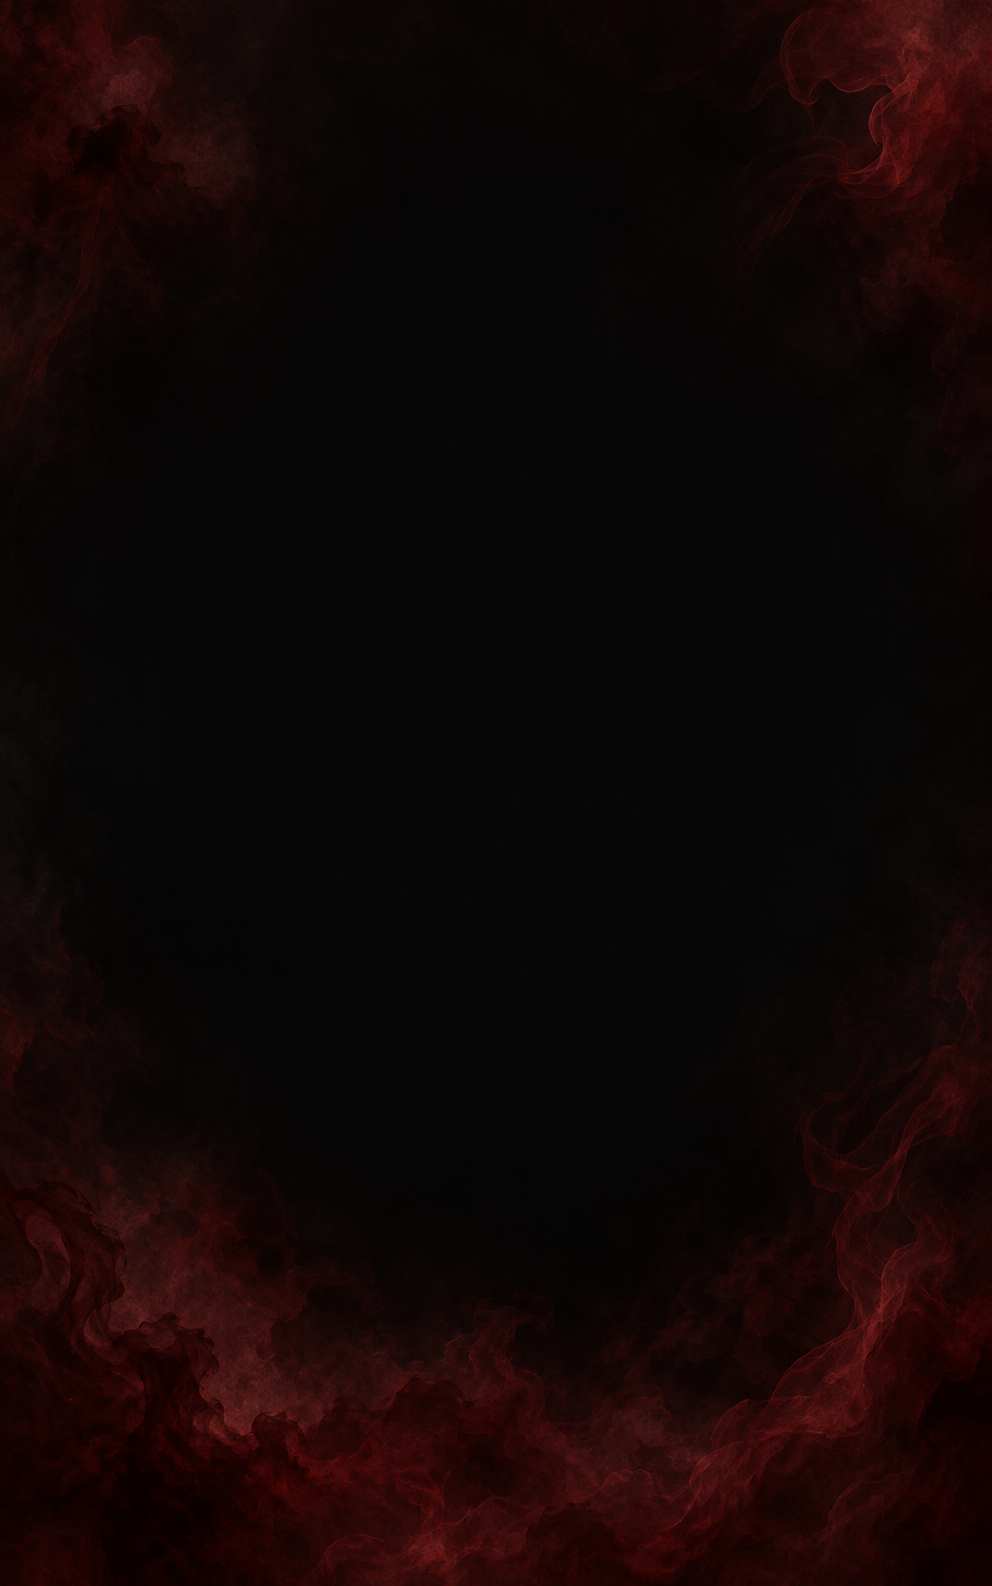
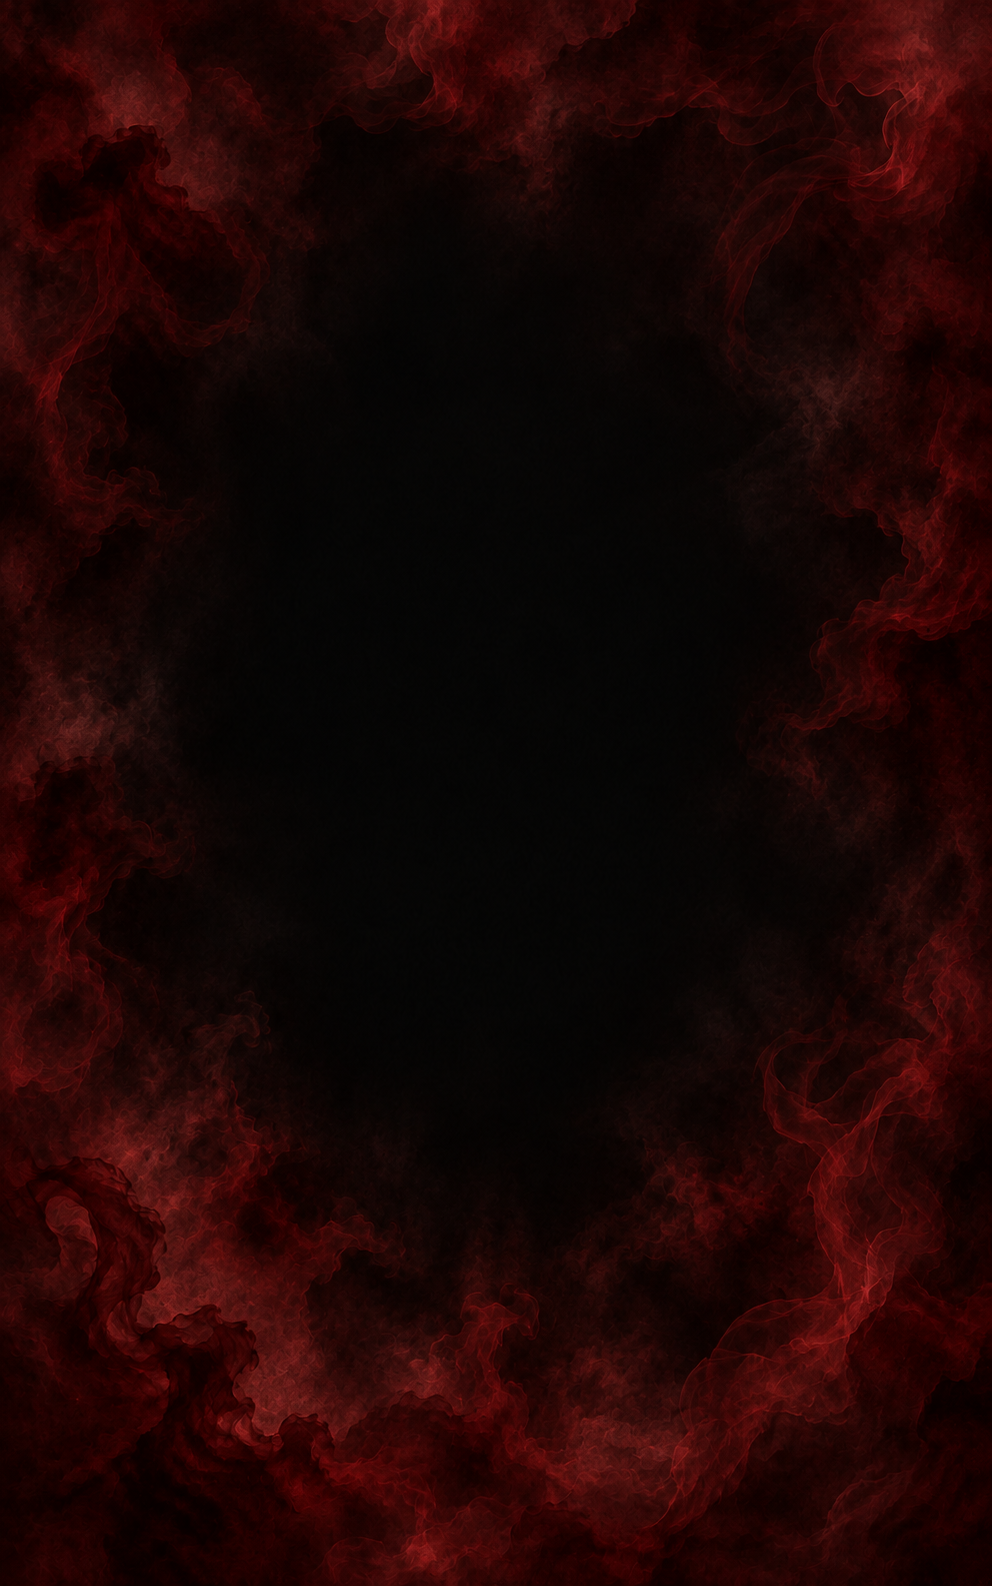
Adapt atmosphere backgrounds for the oval enclosure

diff --git a/docs/backgrounds-oval-20261004.md b/docs/backgrounds-oval-20261004.md
@@ -1,0 +1,16 @@
+# Oval-enclosure background revision
+
+The user accepted the four existing styles and requested about 30% more decoration/coverage, shifted inward because a physical oval frame hides the display corners. The built-in image generation tool edited each existing PNG independently; the density percentage is qualitative art direction, not an exact measured pixel count. No oval frame or mask is baked into the rectangular assets.
+
+The originals remain at `E:/tripo/assets/mirror-backgrounds-20261004`. Versioned outputs, exact edit prompts and source paths are in `oval-v2/edit-prompts-and-files.json`; previews are in `oval-v2/椭圆背景预览.md`. The application copies are byte-identical to these outputs. Three are 992×1586 RGB; the ancient pattern is 992×1585 RGB. The renderer supports both sizes without resampling the source files.
+
+| Asset | SHA256 |
+|---|---|
+| cold-mist.png | a0dc5d01625a7a6d54105e13337cfa8fbc27121a43ea4c87ded0788cf4a141a8 |
+| crimson-mist.png | 3b725a6e70ac29f24672d305063746287759cf44cbf699e0fe5e49d08ca0d12b |
+| ancient-dark-pattern.png | 38a7a1bf872401af884d287edb515faf03d566183748d09c0e179664be88bb44 |
+| violet-stardust.png | d03c09785180532066d8bb4b3e0187b7d8e75433f63d11faa8a9e51641996de4 |
+
[1 lines of base64/hex data omitted]
+
+This asset-only change retains the application code/JNI and existing private head. It adds no meshes, rendering passes or inference work. The selected image still costs about 6 MiB RGBA texture storage. No new FPS benchmark, live USB capture, or optical alignment qualification is claimed. Historical 16/20-view v23 benchmarks do not measure this new APK at scale 2.34.
